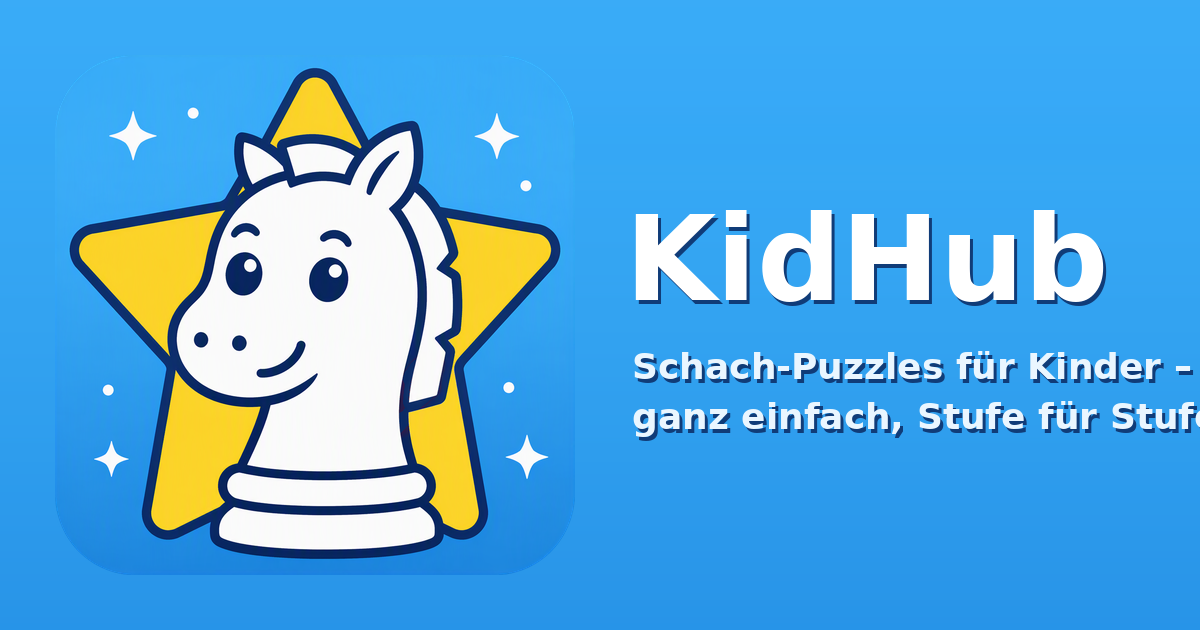
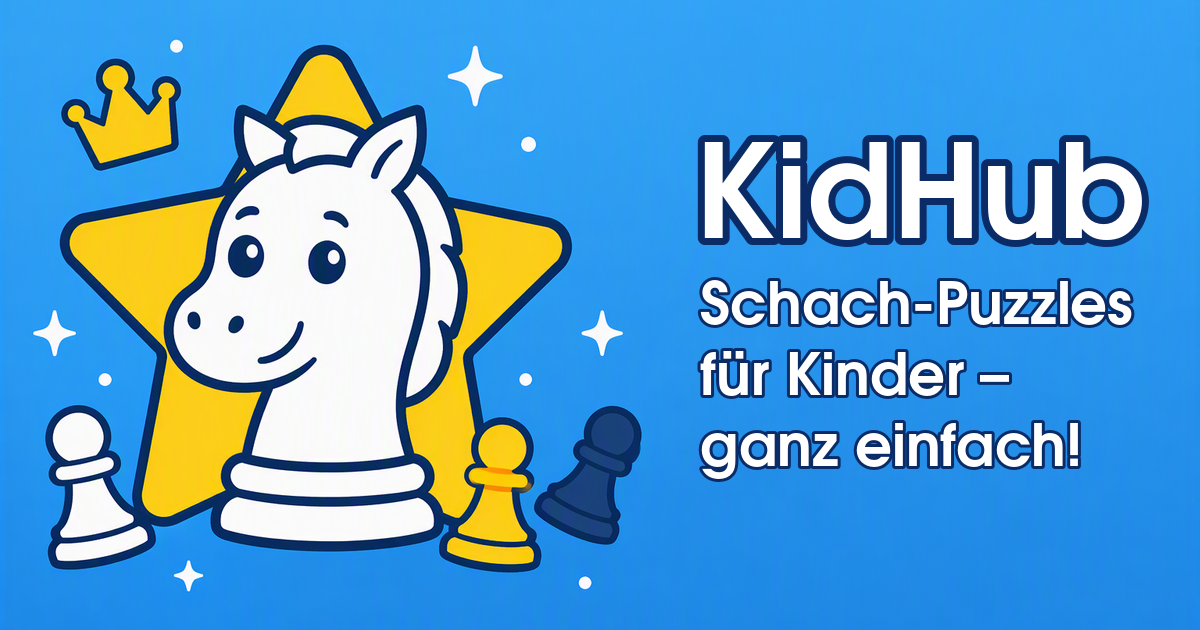
feat(kidhub): gezeichnete Vorlagen für maskable-Symbol und Vorschaubild (0.560.2)
- design/kidhub/KidHub2.png + KidHub3.png aus der Bild-KI übernommen
- derive.py: maskable um das Motiv zugeschnitten (23 % → 32 % des Radius,
  innerhalb Androids sicherer 40 %), Vorschaubild um das Motiv auf 630 hoch
  geschnitten, Name + Satz in die leere rechte Hälfte (weiß, dunkelblauer Umriss)
- ASSETS.md, CLAUDE.md, KidHubAssetTests nachgezogen

diff --git a/src/frontend/app/src/environments/changelog-data.ts b/src/frontend/app/src/environments/changelog-data.ts
@@ -8,6 +8,9 @@
 import { ChangelogEntry } from './changelog';
 
 export const CHANGELOG: ChangelogEntry[] = [
+  { version: "0.560.2", date: "2026-09-27", changes: [
+    { en: "KidHub: the home-screen icon on Android and the link preview picture now come from their own drawings. On the home screen the knight fills the round icon properly instead of sitting small in the middle; the preview shows the knight with a crown and pawns on the left and “KidHub — Schach-Puzzles für Kinder, ganz einfach!” on the right.", de: "KidHub: Das Symbol auf dem Android-Startbildschirm und das Bild der Link-Vorschau stammen jetzt aus eigenen Zeichnungen. Auf dem Startbildschirm füllt der Springer das runde Symbol richtig aus, statt klein in der Mitte zu sitzen; die Vorschau zeigt links den Springer mit Krone und Bauern und rechts „KidHub — Schach-Puzzles für Kinder, ganz einfach!“." },
+  ] },
   { version: "0.560.1", date: "2026-09-27", changes: [
     { en: "KidHub: a visitor from a country whose language the kids’ site does not have (France, Italy, Japan …) now gets English instead of German — English is more likely to be understood. German stays the default only when the country cannot be determined (local network, no country list).", de: "KidHub: Wer aus einem Land kommt, dessen Sprache die Kinderseite nicht hat (Frankreich, Italien, Japan …), bekommt jetzt Englisch statt Deutsch — das wird eher verstanden. Deutsch bleibt die Vorgabe nur, wenn sich das Land nicht bestimmen lässt (lokales Netz, keine Länderliste)." },
   ] },

diff --git a/src/frontend/app/src/environments/changelog.ts b/src/frontend/app/src/environments/changelog.ts
@@ -7,7 +7,7 @@
 // ~0,9 MB Prosa, die das Overlay per dynamic import() erst beim Oeffnen laedt.
 // Neue Eintraege gehoeren dort hinein; diese Datei bleibt bewusst winzig,
 // damit sie ohne Bundle-Kosten eager importierbar ist (Version im Footer).
-export const APP_VERSION = '0.560.1';
+export const APP_VERSION = '0.560.2';
 /** Bump this integer whenever a new APK must be installed by existing users. */
 export const APK_VERSION = 2;
 

diff --git a/design/kidhub/derive.py b/design/kidhub/derive.py
@@ -3,8 +3,8 @@
 Vorlage: design/kidhub/KidHub.png (1254 x 1254, von einer Bild-KI, ohne Alphakanal: die Ecken
 ausserhalb des abgerundeten Quadrats sind WEISS). Aufruf aus dem Repo-Wurzelverzeichnis:
     python3 design/kidhub/derive.py
-Optional design/kidhub/KidHub2.png (maskable) — fehlt sie, entsteht die maskable-Fassung aus dem
-Motiv der ersten Vorlage (blauer Grund herausgerechnet, auf 72 % verkleinert, randloser Verlauf).
+design/kidhub/KidHub2.png (maskable, randloser Grund) und KidHub3.png (Vorschaubild 1536 x 1024,
+Motiv links) sind optional — fehlen sie, baut das Skript beide Fassungen aus der ersten Vorlage.
 """
 from collections import deque
 from pathlib import Path
@@ -110,7 +110,7 @@ def main() -> None:
 
     maskable_src = HERE / 'KidHub2.png'
     if maskable_src.exists():
-        mask = Image.open(maskable_src).convert('RGB')
+        mask = maskable_from_template(Image.open(maskable_src).convert('RGB'))
     else:
         motif = motif_only(a, bg, rgba)
         mask = full_bleed(1254, bg)
@@ -122,10 +122,7 @@ def main() -> None:
         mask.resize((size, size), Image.LANCZOS).save(OUT / 'icons' / f'icon-{size}-maskable.png', optimize=True)
     og_src = HERE / 'KidHub3.png'
     if og_src.exists():
-        # Gezeichnete Vorlage 1536 x 1024 → senkrecht mittig auf 1200 x 630 zuschneiden.
-        og = Image.open(og_src).convert('RGB')
-        w = 1200; h = round(og.height * w / og.width)
-        og = og.resize((w, h), Image.LANCZOS).crop((0, (h - 630) // 2, 1200, (h - 630) // 2 + 630))
+        og = og_from_template(Image.open(og_src).convert('RGB'))
     else:
         og = og_from_icon(icon, bg)
     og.save(OUT / 'og-image.png', optimize=True)
@@ -148,6 +145,73 @@ def og_from_icon(icon: Image.Image, bg: np.ndarray) -> Image.Image:
                                      ((632, 395), 'ganz einfach, Stufe für Stufe.', sub, (234, 246, 255))):
         draw.text((x + 3, y + 4), text, font=font, fill=shadow)
         draw.text((x, y), text, font=font, fill=fill)
+    return og
+
+
+def edge_background(a: np.ndarray, right_only: bool) -> np.ndarray:
+    """Farbe des Grunds je Zeile aus den Randspalten — dort steht in beiden Vorlagen kein Motiv."""
+    cols = a[:, -40:] if right_only else np.concatenate([a[:, :40], a[:, -40:]], axis=1)
+    return np.median(cols.astype(float), axis=1)
+
+
+def motif_mask(a: np.ndarray, bg: np.ndarray) -> np.ndarray:
+    return np.abs(a.astype(float) - bg[:, None, :]).sum(axis=2) > 60
+
+
+def maskable_from_template(img: Image.Image) -> Image.Image:
+    """Die Vorlage laesst das Motiv bei ~23 % des Radius — auf dem Handy waere es ein Knopf in der
+    Mitte. Android garantiert den Kreis bis 40 % der Breite; zugeschnitten wird so, dass das Motiv bis
+    32 % reicht (80 % der sicheren Zone), mittig um das Motiv."""
+    a = np.array(img)
+    ys, xs = np.nonzero(motif_mask(a, edge_background(a, right_only=False)))
+    cx, cy = (xs.min() + xs.max()) / 2, (ys.min() + ys.max()) / 2
+    radius = np.percentile(np.hypot(xs - cx, ys - cy), 99.9)
+    side = min(round(radius / 0.32), img.width, img.height)
+    left = int(np.clip(round(cx - side / 2), 0, img.width - side))
+    top = int(np.clip(round(cy - side / 2), 0, img.height - side))
+    return img.crop((left, top, left + side, top + side))
+
+
+def title_font(size: int):
+    from PIL import ImageFont
+    for path in ('/usr/share/fonts/opentype/urw-base35/URWGothic-Demi.otf',
+                 '/usr/share/fonts/X11/Type1/URWGothic-Demi.pfb',
+                 '/usr/share/fonts/truetype/dejavu/DejaVuSans-Bold.ttf'):
+        if Path(path).exists():
+            return ImageFont.truetype(path, size)
+    return ImageFont.load_default(size)
+
+
+def og_from_template(img: Image.Image) -> Image.Image:
+    """Vorlage 1536 x 1024 → 1200 x 630, senkrecht um das Motiv zugeschnitten; in die leere rechte
+    Haelfte kommen Name und Satz — weiss mit dunkelblauem Umriss wie die Zeichnung."""
+    from PIL import ImageDraw
+    w = 1200
+    h = round(img.height * w / img.width)
+    img = img.resize((w, h), Image.LANCZOS)
+    a = np.array(img)
+    ys, xs = np.nonzero(motif_mask(a, edge_background(a, right_only=True)))
+    top = int(np.clip(round((ys.min() + ys.max()) / 2 - 315), 0, h - 630))
+    og = img.crop((0, top, w, top + 630))
+    navy = tuple(int(v) for v in NAVY)
+    left, right = int(xs.max()) + 55, w - 50
+    draw = ImageDraw.Draw(og)
+    title = title_font(150)
+    while draw.textlength('KidHub', font=title) > right - left:
+        title = title_font(title.size - 4)
+    lines = ('Schach-Puzzles', 'für Kinder –', 'ganz einfach!')
+    sub = title_font(58)
+    while max(draw.textlength(t, font=sub) for t in lines) > right - left:
+        sub = title_font(sub.size - 2)
+    tb = draw.textbbox((0, 0), 'KidHub', font=title, stroke_width=7)
+    line_h = round(sub.size * 1.22)
+    block = (tb[3] - tb[1]) + 34 + line_h * len(lines)
+    y = (630 - block) // 2 - tb[1]
+    draw.text((left, y), 'KidHub', font=title, fill=(255, 255, 255), stroke_width=7, stroke_fill=navy)
+    y += tb[3] + 34
+    for text in lines:
+        draw.text((left + 4, y), text, font=sub, fill=(255, 255, 255), stroke_width=3, stroke_fill=navy)
+        y += line_h
     return og
 
 

diff --git a/tests/RookHub.Api.Tests/KidHubAssetTests.cs b/tests/RookHub.Api.Tests/KidHubAssetTests.cs
@@ -76,6 +76,8 @@ public class KidHubAssetTests
     /// <summary>Die Vorlagen bleiben im Repo — ohne sie liesse sich keine Groesse nachziehen.</summary>
     [Theory]
     [InlineData("KidHub.png")]
+    [InlineData("KidHub2.png")]
+    [InlineData("KidHub3.png")]
     [InlineData("derive.py")]
     public void Designvorlage_LiegtImRepo(string name) =>
         Assert.True(File.Exists(Path.Combine(RepoRoot(), "design", "kidhub", name)),

diff --git a/src/frontend/app/public-kidhub/ASSETS.md b/src/frontend/app/public-kidhub/ASSETS.md
@@ -11,12 +11,12 @@ python3 design/kidhub/derive.py      # aus dem Repo-Wurzelverzeichnis; braucht n
 | Vorlage | Rolle | Stand |
 |---|---|---|
 | `KidHub.png` (1254×1254) | normales Symbol, Apple-Touch, favicon — Motiv fuellt die Flaeche, eigener runder Rahmen | gezeichnet (Bild-KI, 2026-09-27) |
-| `KidHub2.png` (optional) | maskable — randloser Grund, Motiv innerhalb von 60–70 % des Radius | FEHLT — bis dahin baut das Skript die Fassung aus dem Motiv von `KidHub.png` (blauer Grund herausgerechnet, auf 72 % verkleinert, randloser Verlauf) |
-| `KidHub3.png` (optional, 1536×1024) | Vorschaubild — Motiv links, rechts Platz | FEHLT — bis dahin setzt das Skript `KidHub.png` links auf den Verlauf und schreibt „KidHub" daneben (DejaVu Sans Bold) |
+| `KidHub2.png` (1254×1254) | maskable — randloser Grund, Motiv mittig | gezeichnet (2026-09-27). Das Motiv reicht dort nur bis ~23 % der Breite (vom Mittelpunkt) — das Skript schneidet mittig um das Motiv so zu, dass es bis 32 % reicht (Android garantiert den Kreis bis 40 %, also 80 % der sicheren Zone). Fehlt die Datei, entsteht die Fassung aus dem Motiv von `KidHub.png` |
+| `KidHub3.png` (1536×1024) | Vorschaubild — Motiv links, rechte Hälfte leer | gezeichnet (2026-09-27). Das Skript verkleinert auf 1200 breit, schneidet senkrecht UM DAS MOTIV auf 630 zu (mittig geschnitten bliebe unten nur ein Streifen von 23 px) und schreibt „KidHub" + „Schach-Puzzles für Kinder – ganz einfach!" in die rechte Hälfte: weiß mit dunkelblauem Umriss wie die Zeichnung, URW Gothic Demi (sonst DejaVu Sans Bold), Schriftgröße passt sich der Breite an. Fehlt die Datei, setzt das Skript `KidHub.png` links auf den Verlauf |
 
 ## Was das Skript an `KidHub.png` korrigiert
 
-Die Bild-KI lieferte zwei Maengel, die `derive.py` bei JEDEM Lauf behebt:
+Die Bild-KI lieferte zwei Maengel, die `derive.py` bei JEDEM Lauf behebt (`KidHub2.png`/`KidHub3.png` haben sie nicht — randloser Grund, kein Fremdton):
 
 1. **Kein Alphakanal** — die Ecken ausserhalb des abgerundeten Quadrats sind WEISS. Freigestellt wird
    nur, was mit einer Bildecke verbunden ist (ein weisses Funkeln im Blau bleibt stehen), die Randpixel
@@ -35,8 +35,8 @@ entstehen die randlosen Flaechen fuer Apple-Symbol, maskable und Vorschaubild, o
 | `favicon.ico` | 16 + 32 + 48 | `KidHub.png`, freigestellt |
 | `icons/icon-192.png`, `icons/icon-512.png` | quadratisch, transparente Ecken | `KidHub.png` |
 | `icons/apple-touch-icon.png` | 180×180, randlos (iOS rundet selbst) | `KidHub.png` auf dem Verlauf |
-| `icons/icon-192-maskable.png`, `icons/icon-512-maskable.png` | quadratisch, randlos | `KidHub2.png`, sonst abgeleitet |
-| `og-image.png` | 1200×630 | `KidHub3.png`, sonst zusammengesetzt |
+| `icons/icon-192-maskable.png`, `icons/icon-512-maskable.png` | quadratisch, randlos | `KidHub2.png` zugeschnitten, sonst abgeleitet |
+| `og-image.png` | 1200×630 | `KidHub3.png` + Schrift, sonst zusammengesetzt |
 
 **Bewusst KEIN `icons/icon.svg`**: `public-kidhub/` wird UEBER `public/` gelegt, und was hier fehlt,
 faellt still auf RookHubs Datei zurueck (so trug die Turnierseite monatelang das falsche Logo).

diff --git a/CLAUDE.md b/CLAUDE.md
@@ -3210,9 +3210,11 @@ Kinderseite" unter REST API.
   zurücknehmen.
 - **Routen** `/`, `/levels`, `/levels/:level`, `/courses`, `/courses/:bookId`, `/impressum`, `/privacy` — bewusst
   keine mit `/g`, `/t`, `/puzzles`: diese Präfixe schickt der gemeinsame nginx an die Link-Vorschau der API.
-- **Symbole** (0.560.0): gezeichnete Vorlage `design/kidhub/KidHub.png` (Bild-KI), alles in `public-kidhub/` leitet
-  `design/kidhub/derive.py` ab — es stellt die WEISSEN Ecken frei (die Vorlage hat keinen Alphakanal), färbt ein
-  rotlila Stück Umriss um und baut maskable/Vorschaubild aus dem Motiv, solange `KidHub2.png`/`KidHub3.png` fehlen.
+- **Symbole** (0.560.0, Vorlagen 2+3 seit 0.560.2): gezeichnete Vorlagen `design/kidhub/KidHub{,2,3}.png` (Bild-KI),
+  alles in `public-kidhub/` leitet `design/kidhub/derive.py` ab — es stellt bei `KidHub.png` die WEISSEN Ecken frei
+  (die Vorlage hat keinen Alphakanal) und färbt ein rotlila Stück Umriss um, schneidet `KidHub2.png` (maskable) um
+  das Motiv zu (dort nur ~23 % des Radius, danach 32 % — innerhalb Androids sicherer 40 %) und schreibt in die leere
+  rechte Hälfte von `KidHub3.png` Name und Satz (Vorschaubild).
   Rezept in `public-kidhub/ASSETS.md`; `KidHubAssetTests` hält Manifest, `index.html` und Dateien gegeneinander
   (dieselbe Falle wie bei der Turnierseite: was in `public-kidhub/` fehlt, kommt still aus `public/`).
 - **Sprache aus dem IP-Land** (0.560.0): nur wenn die ermittelte Sprache keine Kindersprache ist, fragt KidHub
